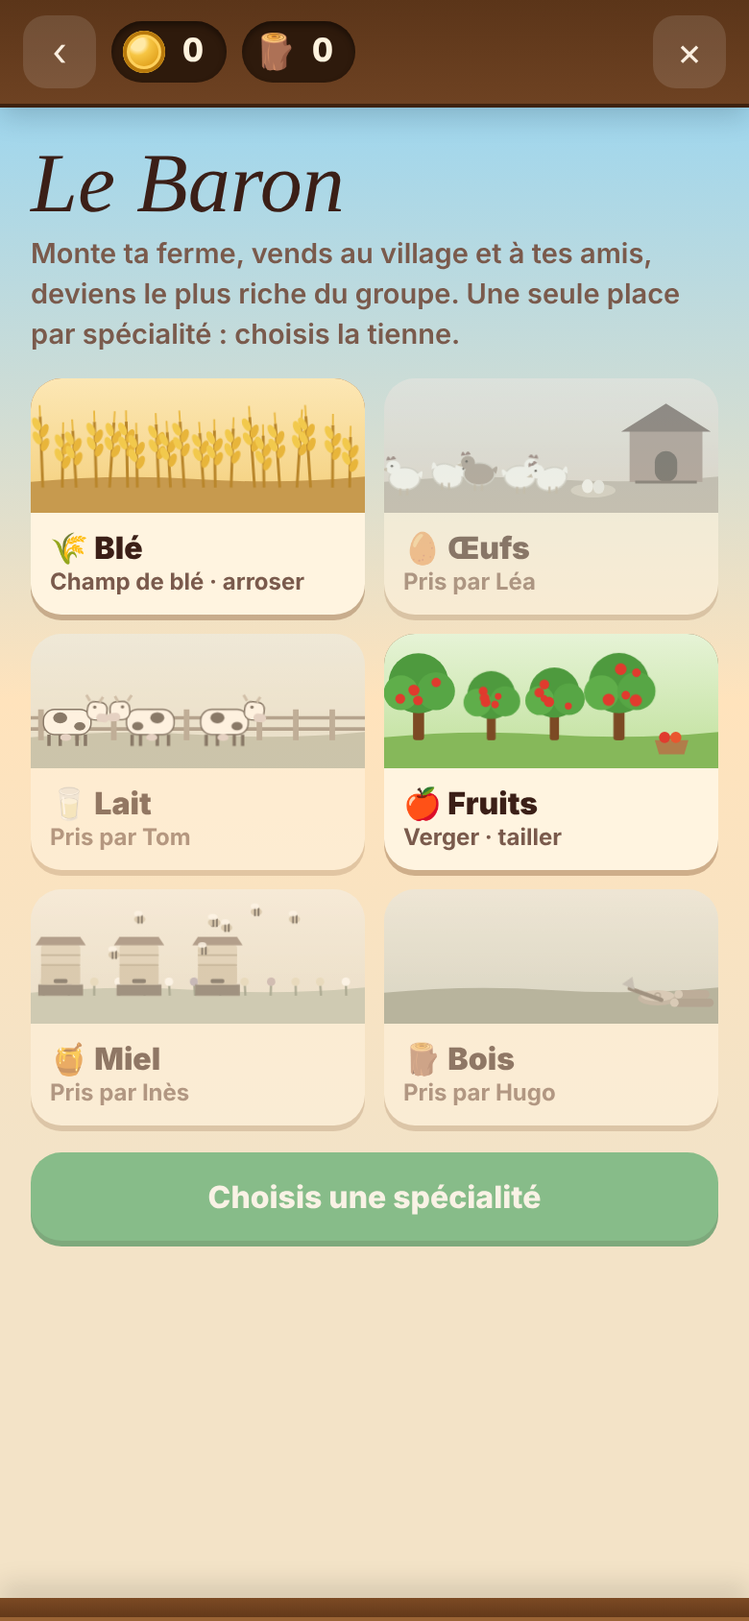
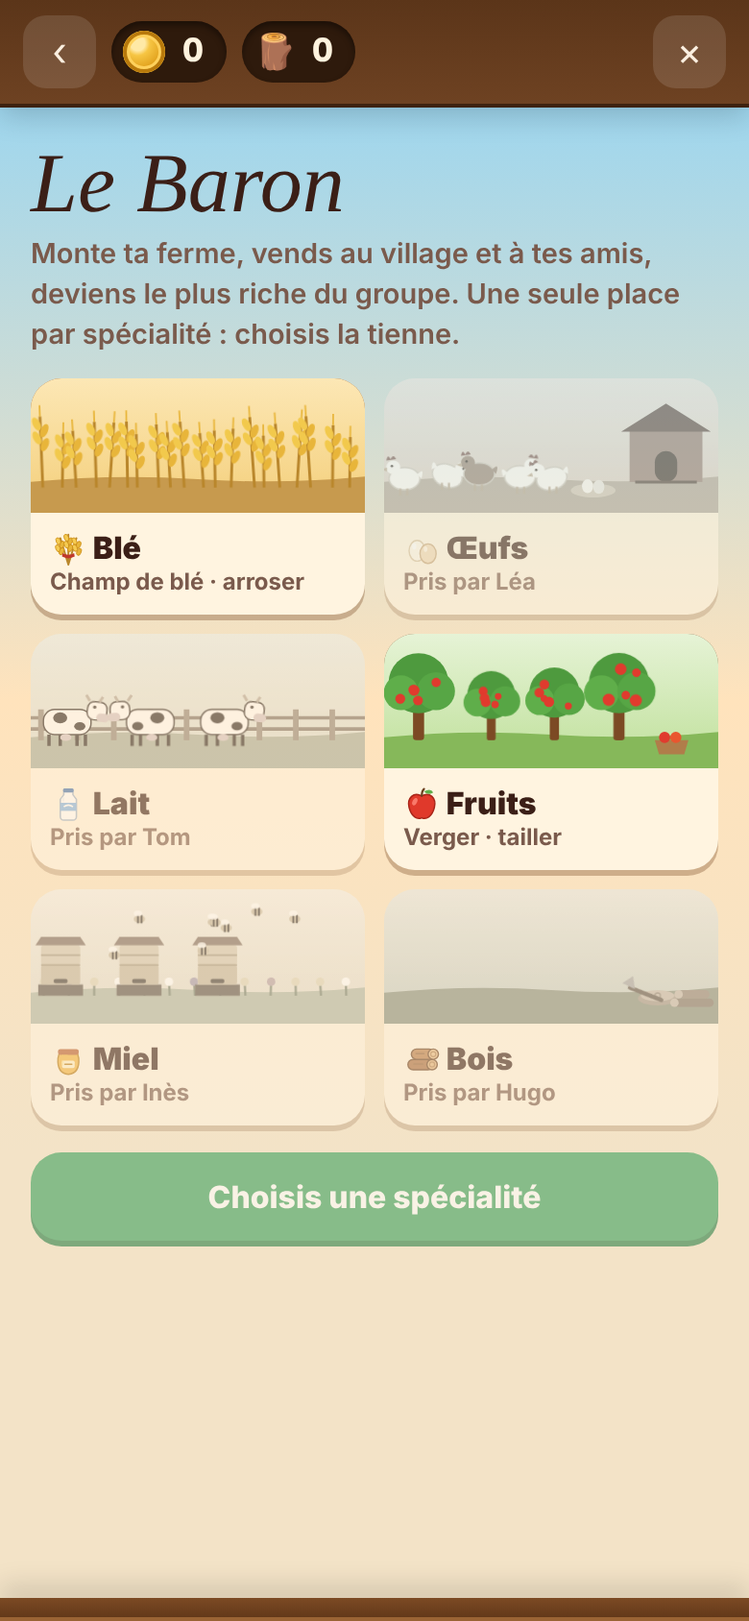
Le Baron v2 : vrais personnages dessinés (fermier, contremaîtres, villageois) animés et icônes dessinées pour les 11 produits, à la place des émojis
Claude-Session: https://claude.ai/code/session_016SqHKL96d9NyDZuzEYmYJY

diff --git a/baron.js b/baron.js
@@ -408,7 +408,7 @@ function coinsFly(fromEl, n){
 function floatText(el, text, cls){
   try{
     const r = el.getBoundingClientRect(), d = document.createElement("div");
-    d.className = "b2-float " + (cls || ""); d.textContent = text;
+    d.className = "b2-float " + (cls || ""); d.innerHTML = text;
     d.style.left = (r.left + r.width / 2) + "px"; d.style.top = (r.top + 6) + "px";
     document.body.appendChild(d); setTimeout(() => d.remove(), 1100);
   }catch(e){}
@@ -593,10 +593,11 @@ const STYLE = `
 .b2-cartlane{position:absolute;left:74px;right:118px;bottom:12px;height:50px;padding:0!important;z-index:1}
 .b2-cart{position:absolute;left:12px;bottom:0;width:80px;will-change:transform}
 .b2-cart .ld{position:absolute;left:50%;top:-20px;transform:translateX(-50%);background:var(--ink);color:#FFE6B8;border-radius:7px;padding:1px 6px;font:900 11.5px var(--round);transition:opacity .2s;white-space:nowrap}
-.b2-cart .pusher{position:absolute;left:-20px;bottom:2px;font-size:22px;line-height:1}
-.b2-cart.back .pusher{left:auto;right:-20px}
+.b2-cart .pusher{position:absolute;left:-24px;bottom:-2px;width:30px;height:44px}
+.b2-cart .pusher svg{width:100%;height:100%;display:block}
+.b2-cart.back .pusher{left:auto;right:-24px;transform:scaleX(-1)}
 .b2-cart.back svg{transform:scaleX(-1)}
-.b2-cart.mv .pusher{animation:b2-walk .3s ease-in-out infinite alternate}
+.b2-cart.mv .pusher svg{animation:b2-walk .3s ease-in-out infinite alternate}
 .b2-cart svg{display:block;width:100%}
 .b2-cart .wheel{transform-box:fill-box;transform-origin:center}
 .b2-cart.mv .wheel{animation:b2-spin .6s linear infinite}
@@ -690,16 +691,17 @@ const STYLE = `
 .b2-plot .pend .b2-tag{position:relative;top:-2px}
 .b2-plot .pend .b2-tag.warn{animation:b2-blink 1s infinite}
 .b2-wk{position:absolute;bottom:4px;left:66%;width:40px;margin-left:-20px;pointer-events:none;z-index:4;text-align:center}
-.b2-wk .who{display:block;font-size:34px;line-height:1;filter:drop-shadow(0 3px 1px rgba(0,0,0,.3))}
+.b2-wk .who{display:block;width:40px;height:58px;filter:drop-shadow(0 2px 1px rgba(0,0,0,.2))}
+.b2-wk .who svg{width:100%;height:100%;display:block}
 .b2-wk .carry{position:absolute;left:50%;top:-20px;transform:translateX(-50%);font-size:24px;display:none;filter:drop-shadow(0 2px 1px rgba(0,0,0,.3))}
 .b2-wk.go .carry{display:block}
+.b2-wk .carry{top:-4px!important;font-size:26px!important;z-index:2}
 .b2-wk.go .who{transform:scaleX(1)}
 .b2-wk.back .who{transform:scaleX(-1)}
 .b2-wk .bar{position:absolute;left:2px;right:2px;top:-12px;height:7px;border-radius:9px;background:rgba(59,31,23,.45);overflow:hidden;opacity:0;transition:opacity .15s}
 .b2-wk .bar i{display:block;height:100%;width:0;background:linear-gradient(90deg,#9BE07A,#3FAF4E);border-radius:9px}
 .b2-wk.work .bar{opacity:1}
-.b2-wk.work .who{animation:b2-dig .4s ease-in-out infinite alternate;transform-origin:50% 100%}
-.b2-wk.go .who,.b2-wk.back .who{animation:b2-walk .28s ease-in-out infinite alternate}
+.b2-wk.go .who svg,.b2-wk.back .who svg{animation:b2-walk .32s ease-in-out infinite alternate}
 .b2-call{display:none;position:absolute;left:50%;bottom:calc(100% + 6px);transform:translateX(-50%);white-space:nowrap;background:#fff;color:var(--ink);border-radius:999px;padding:4px 10px;font:900 13px var(--round);box-shadow:0 3px 10px rgba(0,0,0,.25);animation:b2-hint 1.2s ease-in-out infinite;pointer-events:none;z-index:6}
 .b2-call::after{content:"";position:absolute;left:50%;top:100%;margin-left:-6px;border:6px solid transparent;border-top-color:#fff}
 .b2-wk.tap .b2-call{display:block}
@@ -710,6 +712,21 @@ const STYLE = `
 .b2-cart .b2-call{bottom:calc(100% + 18px)}
 .b2-good{position:fixed;z-index:94;font-size:20px;pointer-events:none;animation:b2-good .8s cubic-bezier(.4,0,.3,1) forwards}
 @keyframes b2-good{0%{transform:translate(0,0) scale(.7);opacity:0}15%{opacity:1;transform:translate(0,-10px) scale(1.1)}100%{transform:translate(var(--dx),var(--dy)) scale(.8);opacity:.6}}
+.b2-ic{display:inline-block;width:1.2em;height:1.2em;vertical-align:-.25em;font-style:normal;line-height:0}
+.b2-ic svg,.b2-face svg{display:block;width:100%;height:100%}
+.b2-face{display:inline-block;width:1.25em;height:1.25em;vertical-align:-.3em;font-style:normal;line-height:0;border-radius:50%;background:#FFF4E0;overflow:hidden}
+.b2-person .lg,.b2-person .ar{transform-box:fill-box;transform-origin:50% 8%}
+.b2-wk.go .lg.l,.b2-wk.back .lg.l,.b2-cart.mv .lg.l{animation:b2-leg .32s ease-in-out infinite alternate}
+.b2-wk.go .lg.r,.b2-wk.back .lg.r,.b2-cart.mv .lg.r{animation:b2-leg .32s ease-in-out infinite alternate-reverse}
+.b2-wk.go .ar.l,.b2-wk.back .ar.l{animation:b2-arm .32s ease-in-out infinite alternate-reverse}
+.b2-wk.back .ar.r{animation:b2-arm .32s ease-in-out infinite alternate}
+.b2-wk.work .ar.r{animation:b2-fork .4s ease-in-out infinite alternate}
+.b2-wk.work .ar.l{animation:b2-arm .4s ease-in-out infinite alternate}
+.b2-cart.mv .ar{animation:none;transform:rotate(-55deg)}
+.b2-cart .ar{transform:rotate(-55deg)}
+@keyframes b2-leg{from{transform:rotate(-22deg)}to{transform:rotate(22deg)}}
+@keyframes b2-arm{from{transform:rotate(-25deg)}to{transform:rotate(25deg)}}
+@keyframes b2-fork{from{transform:rotate(-10deg)}to{transform:rotate(-60deg)}}
 .b2-plvl{position:absolute;left:8px;top:8px;background:rgba(59,31,23,.82);color:#FFE6B8;border-radius:9px;padding:3px 8px;font:800 11.5px var(--round);pointer-events:none}
 .b2-plvl b{font-size:15px;font-weight:900}
 .b2-plot .runbar{position:absolute;left:0;top:0;height:4px;border-radius:14px 0 0 0;background:#FFE08A;transition:width .25s linear}
@@ -1009,7 +1026,64 @@ function ovenArt(hot){
   <g><path class="b2-flame" d="M44 96 q4 -22 12 -26 q-2 12 6 16 q2 -10 8 -14 q2 14 6 24z" fill="#F2873B"/><path class="b2-flame" style="animation-delay:-.2s" d="M52 96 q3 -14 8 -16 q0 8 4 10 q2 -6 5 -8 q1 8 3 14z" fill="#FFD15C"/></g>
   <rect x="4" y="92" width="112" height="8" rx="3" fill="#8C7B6B"/></svg>`;
 }
-const MGR = { parcel:"🧑🌾", elev:"👷", cart:"🧔" };
+/* =================== Personnages et produits dessinés =================== */
+// un personnage (corps entier ou portrait), bras et jambes animables
+function person(o, portrait){
+  const sk = o.skin || "#F2C29B", ink = "#3B1F17", sh = o.shirt || "#D9533B", pa = o.pants || "#3F6FB0", hr = o.hair || "#6B3E1E";
+  const legs = portrait ? "" : `<g class="lg l"><rect x="14" y="41" width="5.5" height="13" rx="2.5" fill="${pa}"/><rect x="12.5" y="52" width="8" height="4.5" rx="2.2" fill="#4A2C17"/></g>
+    <g class="lg r"><rect x="20.5" y="41" width="5.5" height="13" rx="2.5" fill="${pa}"/><rect x="19.5" y="52" width="8" height="4.5" rx="2.2" fill="#4A2C17"/></g>`;
+  const back = `<g class="ar l"><rect x="8.5" y="27" width="5" height="13" rx="2.5" fill="${sh}"/><circle cx="11" cy="40.5" r="2.6" fill="${sk}"/></g>`;
+  const tool = o.tool === "fork" ? `<path d="M30 24 L30 50" stroke="#8C5A30" stroke-width="2" stroke-linecap="round"/><path d="M27 19 v6 M30 18 v7 M33 19 v6 M27 25 h6" stroke="#9AA6AE" stroke-width="1.6" stroke-linecap="round" fill="none"/>`
+    : o.tool === "whip" ? `<path d="M30 40 q6 -10 2 -20" stroke="#6B3E1E" stroke-width="1.6" fill="none"/>` : "";
+  const front = `<g class="ar r">${tool}<rect x="26.5" y="27" width="5" height="13" rx="2.5" fill="${sh}"/><circle cx="29" cy="40.5" r="2.6" fill="${sk}"/></g>`;
+  const body = `<rect x="12" y="25.5" width="16" height="18" rx="6" fill="${sh}"/>` + (o.over !== false ? `<rect x="14" y="31" width="12" height="12.5" rx="2.5" fill="${pa}"/><path d="M15 31 L14.5 26.5 M25 31 L25.5 26.5" stroke="${pa}" stroke-width="2.4"/><circle cx="15.5" cy="32.5" r="1" fill="#F2D27A"/><circle cx="24.5" cy="32.5" r="1" fill="#F2D27A"/>` : "")
+    + (o.apron ? `<path d="M14 30 h12 v13 a2 2 0 0 1 -2 2 h-8 a2 2 0 0 1 -2 -2z" fill="${o.apron}"/>` : "") + (o.vest ? `<path d="M12.5 28 h4 v15 h-4z M23.5 28 h4 v15 h-4z" fill="${o.vest}"/><path d="M12.5 35 h4 M23.5 35 h4" stroke="#F4F1E8" stroke-width="1.5"/>` : "");
+  let hat = "", hair = "";
+  if (o.hair2 === "bun") hair = `<circle cx="20" cy="7.5" r="4.5" fill="${hr}"/>`;
+  hair += `<path d="M11.2 16 a8.8 8.8 0 0 1 17.6 0 q-3 -3.5 -8.8 -3.5 q-5.8 0 -8.8 3.5z" fill="${hr}"/>`;
+  if (o.hat === "straw") hat = `<ellipse cx="20" cy="11.5" rx="13.5" ry="3.2" fill="#E2B85A"/><path d="M13.5 11.5 q0 -7.5 6.5 -7.5 q6.5 0 6.5 7.5z" fill="#F2D27A"/><path d="M13.6 10 h12.8" stroke="#C0392B" stroke-width="2"/>`;
+  if (o.hat === "hard") hat = `<path d="M11 13.5 a9 8.5 0 0 1 18 0z" fill="#F2B33D"/><rect x="9" y="12.5" width="22" height="3" rx="1.5" fill="#D99A1C"/><path d="M20 5.5 v8" stroke="#D99A1C" stroke-width="2"/>`;
+  if (o.hat === "cap") hat = `<path d="M11.3 13.5 a8.7 7.8 0 0 1 17.4 0z" fill="${o.capc || "#3A7E45"}"/><path d="M27 13 h6.5 a1.5 1.5 0 0 1 0 3 h-7z" fill="${o.capc || "#3A7E45"}"/>`;
+  if (o.hat === "chef") hat = `<rect x="13.5" y="8" width="13" height="5.5" rx="1.5" fill="#FFFFFF" stroke="#E2DCCF"/><circle cx="15.5" cy="6" r="4" fill="#fff" stroke="#E2DCCF"/><circle cx="20" cy="4" r="4.5" fill="#fff" stroke="#E2DCCF"/><circle cx="24.5" cy="6" r="4" fill="#fff" stroke="#E2DCCF"/><rect x="14" y="7" width="12" height="5" fill="#fff"/>`;
+  if (o.hat === "scarf") hat = `<path d="M10.5 18 a9.5 10 0 0 1 19 0 l-1.5 3 q-8 -9 -16 0z" fill="${o.scarfc || "#5E8FCB"}"/><circle cx="14" cy="11" r=".9" fill="#fff"/><circle cx="21" cy="9" r=".9" fill="#fff"/><circle cx="26" cy="12" r=".9" fill="#fff"/>`;
+  const beard = o.beard ? `<path d="M12 18 q1 9 8 9 q7 0 8 -9 q-2 4 -8 4 q-6 0 -8 -4z" fill="${hr}"/>` : "";
+  const head = `<circle cx="11.3" cy="18.5" r="2" fill="${sk}"/><circle cx="28.7" cy="18.5" r="2" fill="${sk}"/><circle cx="20" cy="17.5" r="9" fill="${sk}"/>${hair}${beard}
+    <circle cx="16.8" cy="17.6" r="1.25" fill="${ink}"/><circle cx="23.2" cy="17.6" r="1.25" fill="${ink}"/><circle cx="15" cy="20.6" r="1.6" fill="#F28C7A" opacity=".55"/><circle cx="25" cy="20.6" r="1.6" fill="#F28C7A" opacity=".55"/>
+    ${o.beard ? `<path d="M17.8 21.6 q2.2 1.4 4.4 0" stroke="${ink}" stroke-width="1" fill="none" stroke-linecap="round"/>` : `<path d="M17.6 21 q2.4 2.2 4.8 0" stroke="${ink}" stroke-width="1.1" fill="none" stroke-linecap="round"/>`}${o.mous ? `<path d="M16.5 20.4 q3.5 -1.6 7 0 q-3.5 1.2 -7 0z" fill="${hr}"/>` : ""}${hat}`;
+  const vb = portrait ? "5 -0.5 30 30" : "0 0 40 58";
+  return `<svg class="b2-person" viewBox="${vb}" aria-hidden="true">${portrait ? "" : `<ellipse cx="20" cy="56.5" rx="10" ry="1.8" fill="rgba(0,0,0,.18)"/>`}${legs}${back}${body}${front}${head}</svg>`;
+}
+const PEOPLE = {
+  parcel: { hat:"straw", shirt:"#D9533B", pants:"#3F6FB0", tool:"fork" },
+  elev:   { hat:"hard", shirt:"#4E7FB8", pants:"#46505C", vest:"#F2873B", over:false, skin:"#E0A87E" },
+  cart:   { hat:"cap", capc:"#3A7E45", shirt:"#EAD9B5", pants:"#7C4A24", beard:true, hair:"#5B3519", over:false, skin:"#F0BE96" },
+  boulanger:  { hat:"chef", shirt:"#FFFFFF", pants:"#E9E2D3", over:false, mous:true, hair:"#3B2A20" },
+  aubergiste: { shirt:"#B65C3B", pants:"#5B3519", over:false, apron:"#F2E6CC", beard:true, hair:"#A0522D", skin:"#E8B48C" },
+  patissiere: { hat:"chef", shirt:"#F4A9B8", pants:"#F4A9B8", over:false, apron:"#FFFFFF", hair:"#8B4A2B", skin:"#C98E6B" },
+  epiciere:   { hat:"scarf", scarfc:"#5E8FCB", shirt:"#8E6BB8", pants:"#8E6BB8", over:false, hair:"#C9C3BA", apron:"#F2D27A" },
+  charpentier:{ hat:"cap", capc:"#C0392B", shirt:"#C0392B", pants:"#3F6FB0", hair:"#2B1D14", skin:"#B07A55" },
+};
+const face = k => `<i class="b2-face">${person(PEOPLE[k], true)}</i>`;
+const MGR = { parcel: face("parcel"), elev: face("elev"), cart: face("cart") };
+const BODY = { parcel: person(PEOPLE.parcel), cart: person(Object.assign({}, PEOPLE.cart, { tool:null })) };
+for (const k in BX.CHARS) if (PEOPLE[k]) BX.CHARS[k].e = face(k);
+
+// les 11 produits
+const PIC = {
+  ble: `<path d="M16 30 L9 7 M16 30 L16 4 M16 30 L23 7" stroke="#B9862B" stroke-width="1.6" stroke-linecap="round"/>${[[9,7],[16,4],[23,7]].map(([x,y]) => [0,1,2,3].map(j => `<ellipse cx="${x + (j % 2 ? 1.8 : -1.8) + (x - 16) * j * .03}" cy="${y + 2 + j * 3}" rx="1.9" ry="3.2" fill="${j % 2 ? "#E8B53A" : "#F5CB52"}" stroke="#C98A12" stroke-width=".6" transform="rotate(${j % 2 ? 22 : -22} ${x} ${y + 2 + j * 3})"/>`).join("")).join("")}<path d="M11 20 q5 3 10 0 l0.5 3 q-5.5 3 -11 0z" fill="#C0392B"/>`,
+  oeufs: `<ellipse cx="12" cy="18" rx="7" ry="9" fill="#FFF8EA" stroke="#D9C3A0" stroke-width="1.2"/><ellipse cx="21.5" cy="20.5" rx="7" ry="8.5" fill="#F3D9B5" stroke="#C9A77A" stroke-width="1.2"/><ellipse cx="9.5" cy="14" rx="1.8" ry="2.8" fill="#fff"/><ellipse cx="19.3" cy="16.5" rx="1.6" ry="2.4" fill="#FFF3E0"/>`,
+  lait: `<path d="M12 4 h8 v4 l3 4 v15 a3 3 0 0 1 -3 3 h-8 a3 3 0 0 1 -3 -3 v-15 l3 -4z" fill="#FFFFFF" stroke="#9FB3C8" stroke-width="1.3"/><rect x="11.5" y="2.5" width="9" height="3.5" rx="1.2" fill="#3F6FB0"/><rect x="9" y="15" width="14" height="7" fill="#7FB2E5"/><path d="M12 18.5 q4 -3 8 0" stroke="#fff" stroke-width="1.3" fill="none"/><rect x="10.5" y="10" width="2" height="4" rx="1" fill="#EEF4FA"/>`,
+  fruits: `<path d="M16 9 C 9 5, 3 11, 5 19 C 7 27, 12 30, 16 28 C 20 30, 25 27, 27 19 C 29 11, 23 5, 16 9z" fill="#E0392B" stroke="#A82418" stroke-width="1.2"/><path d="M16 9 q0 -4 2 -6" stroke="#6B3E1E" stroke-width="1.8" stroke-linecap="round" fill="none"/><path d="M18 5 q6 -3 8 1 q-5 3 -8 -1z" fill="#5FAE4A"/><ellipse cx="10" cy="14" rx="2" ry="3.4" fill="#FF8A7A" opacity=".8" transform="rotate(25 10 14)"/>`,
+  miel: `<path d="M8 11 h16 l1 4 q1 13 -9 14 q-10 -1 -9 -14z" fill="#F2B33D" stroke="#B87A10" stroke-width="1.2"/><rect x="7" y="7" width="18" height="5" rx="2" fill="#B85C2A"/><path d="M10 12 q1 5 2.5 0 q1.5 7 3 0" fill="#F2B33D"/><rect x="10.5" y="17" width="11" height="6.5" rx="1.5" fill="#FFF0C7"/><path d="M13 20.3 h6" stroke="#B87A10" stroke-width="1.3" stroke-linecap="round"/><ellipse cx="11" cy="19" rx="1" ry="2.5" fill="#FFE08A" opacity=".7"/>`,
+  bois: `<rect x="4" y="16" width="22" height="9" rx="4.5" fill="#A86B3C" stroke="#6B3E1E" stroke-width="1.2"/><circle cx="25" cy="20.5" r="4.5" fill="#E2B27A" stroke="#6B3E1E" stroke-width="1.2"/><circle cx="25" cy="20.5" r="2.2" fill="none" stroke="#B07D4A" stroke-width="1"/><rect x="7" y="7" width="20" height="9" rx="4.5" fill="#B87A46" stroke="#6B3E1E" stroke-width="1.2"/><circle cx="26" cy="11.5" r="4.5" fill="#E8BC86" stroke="#6B3E1E" stroke-width="1.2"/><circle cx="26" cy="11.5" r="2.2" fill="none" stroke="#B07D4A" stroke-width="1"/><path d="M9 20 h8 M11 11 h7" stroke="#8C5A30" stroke-width="1" stroke-linecap="round"/>`,
+  pain: `<path d="M4 20 q0 -9 12 -11 q12 -2 12 7 q0 8 -12 10 q-12 1 -12 -6z" fill="#D9903F" stroke="#9E5E1E" stroke-width="1.2"/><path d="M10 13.5 l3 5 M15 12 l3 5 M20 11.5 l3 5" stroke="#F6D190" stroke-width="2" stroke-linecap="round"/>`,
+  crepes: `<ellipse cx="16" cy="25" rx="13" ry="3.5" fill="#E8F0F5" stroke="#B9C7D2"/>${[21, 17.5, 14].map(y => `<ellipse cx="16" cy="${y}" rx="11" ry="3.2" fill="#F0C46A" stroke="#C98A2B" stroke-width="1"/>`).join("")}<path d="M10 13 q6 -3 12 0 q1 4 -2 6 q-1 -3 -3 -2 q-2 3 -4 0 q-3 1 -3 -4z" fill="#9E5A1E" opacity=".85"/><rect x="14" y="8" width="5" height="4" rx="1" fill="#FFF3C4" stroke="#E2C77A" stroke-width=".8"/>`,
+  tarte: `<ellipse cx="16" cy="19" rx="13" ry="9" fill="#D9903F" stroke="#9E5E1E" stroke-width="1.2"/><ellipse cx="16" cy="18" rx="10" ry="6.5" fill="#C0392B"/><path d="M8 15.5 l16 5 M8 20.5 l16 -5 M12 12.5 l1 11 M20 12.5 l-1 11" stroke="#F0B562" stroke-width="2.2" stroke-linecap="round"/>`,
+  confiture: `<rect x="8" y="11" width="16" height="17" rx="4" fill="#C2263A" stroke="#8E1828" stroke-width="1.2"/><path d="M6 10 q10 -6 20 0 l-2 4 q-8 -3 -16 0z" fill="#fff" stroke="#E2DCCF"/><path d="M8.5 9 l3 1.5 M13 7.5 l3 1.5 M18 7.5 l3 1.5 M22 9 l2.5 1.5" stroke="#E0392B" stroke-width="1.6"/><path d="M8 13.5 h16" stroke="#7C4A24" stroke-width="1.2"/><rect x="11" y="17" width="10" height="6" rx="1.5" fill="#FFF0C7"/><ellipse cx="11" cy="20" rx="1" ry="3" fill="#E85A6B" opacity=".7"/>`,
+  gateau: `<rect x="5" y="17" width="22" height="10" rx="2.5" fill="#F4A9B8" stroke="#C26A7E" stroke-width="1.2"/><rect x="5" y="20.5" width="22" height="2.5" fill="#FFF3E0"/><path d="M5 17 q2.75 3 5.5 0 q2.75 3 5.5 0 q2.75 3 5.5 0 q2.75 3 5.5 0 v-3 q-11 -4 -22 0z" fill="#FFFFFF" stroke="#E2DCCF"/><circle cx="16" cy="10.5" r="3" fill="#E0392B"/><path d="M16 7.5 q1 -3 3.5 -3.5" stroke="#5FAE4A" stroke-width="1.3" fill="none"/><rect x="4" y="27" width="24" height="2.5" rx="1.2" fill="#C7D3DC"/>`,
+};
+for (const k in PIC) P[k].e = `<i class="b2-ic"><svg viewBox="0 0 32 32" aria-hidden="true">${PIC[k]}</svg></i>`;
+
 
 const st = document.createElement("style"); st.id = "b2-style"; st.textContent = STYLE; document.head.appendChild(st);
 
@@ -1132,7 +1206,7 @@ function flyGoods(from, to, e, n){
     const a = from.getBoundingClientRect(), b = to.getBoundingClientRect();
     if (a.bottom < 0 || a.top > innerHeight) return;
     for (let j = 0; j < (n || 3); j++){
-      const g = document.createElement("span"); g.className = "b2-good"; g.textContent = e;
+      const g = document.createElement("span"); g.className = "b2-good"; g.innerHTML = e;
       g.style.left = (a.left + a.width / 2 - 10) + "px"; g.style.top = (a.top + a.height / 2 - 10) + "px";
       g.style.setProperty("--dx", (b.left + b.width / 2 - a.left - a.width / 2) + "px"); g.style.setProperty("--dy", (b.top + b.height / 2 - a.top - a.height / 2) + "px");
       g.style.animationDelay = (j * 90) + "ms"; document.body.appendChild(g); setTimeout(() => g.remove(), 900 + j * 90);
@@ -1263,7 +1337,7 @@ function farmHTML(){
     return `<div class="b2-plot" data-plot="${i}" style="--soil:${depth(i)}">
       <div class="art" data-a="tap-parcel" data-i="${i}">${plotArt(key, i, p.lvl)}<div class="b2-path"></div>
         <div class="pend"><span class="b2-tag" data-pend>${fmtN(p.pend)}</span>${CRATE}</div>
-        <div class="b2-wk ${p.ph}" data-wk="${i}"><div class="bar"><i></i></div><span class="carry">${pr.e}</span><span class="who">${MGR.parcel}</span><span class="b2-call">👆 Récolter</span></div>
+        <div class="b2-wk ${p.ph}" data-wk="${i}"><div class="bar"><i></i></div><span class="carry">${pr.e}</span><span class="who">${BODY.parcel}</span><span class="b2-call">👆 Récolter</span></div>
       </div><span class="b2-plvl">Niv <b>${p.lvl}</b></span>
       <div class="b2-sign"><div class="row">
         ${seatHTML("parcel", p.mgr, BX.nice(BAL.parcelMgr(i)), i)}
@@ -1289,7 +1363,7 @@ function farmHTML(){
       <div class="b2-ground"></div><div class="b2-road"></div>
       <button class="b2-tower" data-a="tap-elev" aria-label="Faire monter le monte-charge">${TOWER}<span class="b2-call up" data-hint="elev">👆 Ramasser</span></button>
       <div class="b2-quai"><span class="b2-tag" data-live="quai">${fmtN(f.quai)}</span><div class="sacks" data-n="-1"></div><small>Dépôt</small></div>
-      <button class="b2-cartlane" data-a="tap-cart" aria-label="Faire rouler la charrette"><div class="b2-cart"><span class="ld">0</span>${CART}<span class="pusher">${MGR.cart}</span><span class="b2-call up" data-hint="cart">👆 Livrer</span></div></button>
+      <button class="b2-cartlane" data-a="tap-cart" aria-label="Faire rouler la charrette"><div class="b2-cart"><span class="ld">0</span>${CART}<span class="pusher">${BODY.cart}</span><span class="b2-call up" data-hint="cart">👆 Livrer</span></div></button>
     </div>
     ${farmsK.length > 1 ? `<div class="b2-farmsw">${farmsK.map(k => `<button class="${k === key ? "on" : ""}" data-a="farm" data-k="${k}">${P[k].e} ${P[k].label}</button>`).join("")}</div>` : ""}
     ${tip}

diff --git a/.github/baron-src/part-c.js b/.github/baron-src/part-c.js
@@ -91,10 +91,11 @@ const STYLE = `
 .b2-cartlane{position:absolute;left:74px;right:118px;bottom:12px;height:50px;padding:0!important;z-index:1}
 .b2-cart{position:absolute;left:12px;bottom:0;width:80px;will-change:transform}
 .b2-cart .ld{position:absolute;left:50%;top:-20px;transform:translateX(-50%);background:var(--ink);color:#FFE6B8;border-radius:7px;padding:1px 6px;font:900 11.5px var(--round);transition:opacity .2s;white-space:nowrap}
-.b2-cart .pusher{position:absolute;left:-20px;bottom:2px;font-size:22px;line-height:1}
-.b2-cart.back .pusher{left:auto;right:-20px}
+.b2-cart .pusher{position:absolute;left:-24px;bottom:-2px;width:30px;height:44px}
+.b2-cart .pusher svg{width:100%;height:100%;display:block}
+.b2-cart.back .pusher{left:auto;right:-24px;transform:scaleX(-1)}
 .b2-cart.back svg{transform:scaleX(-1)}
-.b2-cart.mv .pusher{animation:b2-walk .3s ease-in-out infinite alternate}
+.b2-cart.mv .pusher svg{animation:b2-walk .3s ease-in-out infinite alternate}
 .b2-cart svg{display:block;width:100%}
 .b2-cart .wheel{transform-box:fill-box;transform-origin:center}
 .b2-cart.mv .wheel{animation:b2-spin .6s linear infinite}
@@ -188,16 +189,17 @@ const STYLE = `
 .b2-plot .pend .b2-tag{position:relative;top:-2px}
 .b2-plot .pend .b2-tag.warn{animation:b2-blink 1s infinite}
 .b2-wk{position:absolute;bottom:4px;left:66%;width:40px;margin-left:-20px;pointer-events:none;z-index:4;text-align:center}
-.b2-wk .who{display:block;font-size:34px;line-height:1;filter:drop-shadow(0 3px 1px rgba(0,0,0,.3))}
+.b2-wk .who{display:block;width:40px;height:58px;filter:drop-shadow(0 2px 1px rgba(0,0,0,.2))}
+.b2-wk .who svg{width:100%;height:100%;display:block}
 .b2-wk .carry{position:absolute;left:50%;top:-20px;transform:translateX(-50%);font-size:24px;display:none;filter:drop-shadow(0 2px 1px rgba(0,0,0,.3))}
 .b2-wk.go .carry{display:block}
+.b2-wk .carry{top:-4px!important;font-size:26px!important;z-index:2}
 .b2-wk.go .who{transform:scaleX(1)}
 .b2-wk.back .who{transform:scaleX(-1)}
 .b2-wk .bar{position:absolute;left:2px;right:2px;top:-12px;height:7px;border-radius:9px;background:rgba(59,31,23,.45);overflow:hidden;opacity:0;transition:opacity .15s}
 .b2-wk .bar i{display:block;height:100%;width:0;background:linear-gradient(90deg,#9BE07A,#3FAF4E);border-radius:9px}
 .b2-wk.work .bar{opacity:1}
-.b2-wk.work .who{animation:b2-dig .4s ease-in-out infinite alternate;transform-origin:50% 100%}
-.b2-wk.go .who,.b2-wk.back .who{animation:b2-walk .28s ease-in-out infinite alternate}
+.b2-wk.go .who svg,.b2-wk.back .who svg{animation:b2-walk .32s ease-in-out infinite alternate}
 .b2-call{display:none;position:absolute;left:50%;bottom:calc(100% + 6px);transform:translateX(-50%);white-space:nowrap;background:#fff;color:var(--ink);border-radius:999px;padding:4px 10px;font:900 13px var(--round);box-shadow:0 3px 10px rgba(0,0,0,.25);animation:b2-hint 1.2s ease-in-out infinite;pointer-events:none;z-index:6}
 .b2-call::after{content:"";position:absolute;left:50%;top:100%;margin-left:-6px;border:6px solid transparent;border-top-color:#fff}
 .b2-wk.tap .b2-call{display:block}
@@ -208,6 +210,21 @@ const STYLE = `
 .b2-cart .b2-call{bottom:calc(100% + 18px)}
 .b2-good{position:fixed;z-index:94;font-size:20px;pointer-events:none;animation:b2-good .8s cubic-bezier(.4,0,.3,1) forwards}
 @keyframes b2-good{0%{transform:translate(0,0) scale(.7);opacity:0}15%{opacity:1;transform:translate(0,-10px) scale(1.1)}100%{transform:translate(var(--dx),var(--dy)) scale(.8);opacity:.6}}
+.b2-ic{display:inline-block;width:1.2em;height:1.2em;vertical-align:-.25em;font-style:normal;line-height:0}
+.b2-ic svg,.b2-face svg{display:block;width:100%;height:100%}
+.b2-face{display:inline-block;width:1.25em;height:1.25em;vertical-align:-.3em;font-style:normal;line-height:0;border-radius:50%;background:#FFF4E0;overflow:hidden}
+.b2-person .lg,.b2-person .ar{transform-box:fill-box;transform-origin:50% 8%}
+.b2-wk.go .lg.l,.b2-wk.back .lg.l,.b2-cart.mv .lg.l{animation:b2-leg .32s ease-in-out infinite alternate}
+.b2-wk.go .lg.r,.b2-wk.back .lg.r,.b2-cart.mv .lg.r{animation:b2-leg .32s ease-in-out infinite alternate-reverse}
+.b2-wk.go .ar.l,.b2-wk.back .ar.l{animation:b2-arm .32s ease-in-out infinite alternate-reverse}
+.b2-wk.back .ar.r{animation:b2-arm .32s ease-in-out infinite alternate}
+.b2-wk.work .ar.r{animation:b2-fork .4s ease-in-out infinite alternate}
+.b2-wk.work .ar.l{animation:b2-arm .4s ease-in-out infinite alternate}
+.b2-cart.mv .ar{animation:none;transform:rotate(-55deg)}
+.b2-cart .ar{transform:rotate(-55deg)}
+@keyframes b2-leg{from{transform:rotate(-22deg)}to{transform:rotate(22deg)}}
+@keyframes b2-arm{from{transform:rotate(-25deg)}to{transform:rotate(25deg)}}
+@keyframes b2-fork{from{transform:rotate(-10deg)}to{transform:rotate(-60deg)}}
 .b2-plvl{position:absolute;left:8px;top:8px;background:rgba(59,31,23,.82);color:#FFE6B8;border-radius:9px;padding:3px 8px;font:800 11.5px var(--round);pointer-events:none}
 .b2-plvl b{font-size:15px;font-weight:900}
 .b2-plot .runbar{position:absolute;left:0;top:0;height:4px;border-radius:14px 0 0 0;background:#FFE08A;transition:width .25s linear}
@@ -507,4 +524,61 @@ function ovenArt(hot){
   <g><path class="b2-flame" d="M44 96 q4 -22 12 -26 q-2 12 6 16 q2 -10 8 -14 q2 14 6 24z" fill="#F2873B"/><path class="b2-flame" style="animation-delay:-.2s" d="M52 96 q3 -14 8 -16 q0 8 4 10 q2 -6 5 -8 q1 8 3 14z" fill="#FFD15C"/></g>
   <rect x="4" y="92" width="112" height="8" rx="3" fill="#8C7B6B"/></svg>`;
 }
-const MGR = { parcel:"🧑🌾", elev:"👷", cart:"🧔" };
+/* =================== Personnages et produits dessinés =================== */
+// un personnage (corps entier ou portrait), bras et jambes animables
+function person(o, portrait){
+  const sk = o.skin || "#F2C29B", ink = "#3B1F17", sh = o.shirt || "#D9533B", pa = o.pants || "#3F6FB0", hr = o.hair || "#6B3E1E";
+  const legs = portrait ? "" : `<g class="lg l"><rect x="14" y="41" width="5.5" height="13" rx="2.5" fill="${pa}"/><rect x="12.5" y="52" width="8" height="4.5" rx="2.2" fill="#4A2C17"/></g>
+    <g class="lg r"><rect x="20.5" y="41" width="5.5" height="13" rx="2.5" fill="${pa}"/><rect x="19.5" y="52" width="8" height="4.5" rx="2.2" fill="#4A2C17"/></g>`;
+  const back = `<g class="ar l"><rect x="8.5" y="27" width="5" height="13" rx="2.5" fill="${sh}"/><circle cx="11" cy="40.5" r="2.6" fill="${sk}"/></g>`;
+  const tool = o.tool === "fork" ? `<path d="M30 24 L30 50" stroke="#8C5A30" stroke-width="2" stroke-linecap="round"/><path d="M27 19 v6 M30 18 v7 M33 19 v6 M27 25 h6" stroke="#9AA6AE" stroke-width="1.6" stroke-linecap="round" fill="none"/>`
+    : o.tool === "whip" ? `<path d="M30 40 q6 -10 2 -20" stroke="#6B3E1E" stroke-width="1.6" fill="none"/>` : "";
+  const front = `<g class="ar r">${tool}<rect x="26.5" y="27" width="5" height="13" rx="2.5" fill="${sh}"/><circle cx="29" cy="40.5" r="2.6" fill="${sk}"/></g>`;
+  const body = `<rect x="12" y="25.5" width="16" height="18" rx="6" fill="${sh}"/>` + (o.over !== false ? `<rect x="14" y="31" width="12" height="12.5" rx="2.5" fill="${pa}"/><path d="M15 31 L14.5 26.5 M25 31 L25.5 26.5" stroke="${pa}" stroke-width="2.4"/><circle cx="15.5" cy="32.5" r="1" fill="#F2D27A"/><circle cx="24.5" cy="32.5" r="1" fill="#F2D27A"/>` : "")
+    + (o.apron ? `<path d="M14 30 h12 v13 a2 2 0 0 1 -2 2 h-8 a2 2 0 0 1 -2 -2z" fill="${o.apron}"/>` : "") + (o.vest ? `<path d="M12.5 28 h4 v15 h-4z M23.5 28 h4 v15 h-4z" fill="${o.vest}"/><path d="M12.5 35 h4 M23.5 35 h4" stroke="#F4F1E8" stroke-width="1.5"/>` : "");
+  let hat = "", hair = "";
+  if (o.hair2 === "bun") hair = `<circle cx="20" cy="7.5" r="4.5" fill="${hr}"/>`;
+  hair += `<path d="M11.2 16 a8.8 8.8 0 0 1 17.6 0 q-3 -3.5 -8.8 -3.5 q-5.8 0 -8.8 3.5z" fill="${hr}"/>`;
+  if (o.hat === "straw") hat = `<ellipse cx="20" cy="11.5" rx="13.5" ry="3.2" fill="#E2B85A"/><path d="M13.5 11.5 q0 -7.5 6.5 -7.5 q6.5 0 6.5 7.5z" fill="#F2D27A"/><path d="M13.6 10 h12.8" stroke="#C0392B" stroke-width="2"/>`;
+  if (o.hat === "hard") hat = `<path d="M11 13.5 a9 8.5 0 0 1 18 0z" fill="#F2B33D"/><rect x="9" y="12.5" width="22" height="3" rx="1.5" fill="#D99A1C"/><path d="M20 5.5 v8" stroke="#D99A1C" stroke-width="2"/>`;
+  if (o.hat === "cap") hat = `<path d="M11.3 13.5 a8.7 7.8 0 0 1 17.4 0z" fill="${o.capc || "#3A7E45"}"/><path d="M27 13 h6.5 a1.5 1.5 0 0 1 0 3 h-7z" fill="${o.capc || "#3A7E45"}"/>`;
+  if (o.hat === "chef") hat = `<rect x="13.5" y="8" width="13" height="5.5" rx="1.5" fill="#FFFFFF" stroke="#E2DCCF"/><circle cx="15.5" cy="6" r="4" fill="#fff" stroke="#E2DCCF"/><circle cx="20" cy="4" r="4.5" fill="#fff" stroke="#E2DCCF"/><circle cx="24.5" cy="6" r="4" fill="#fff" stroke="#E2DCCF"/><rect x="14" y="7" width="12" height="5" fill="#fff"/>`;
+  if (o.hat === "scarf") hat = `<path d="M10.5 18 a9.5 10 0 0 1 19 0 l-1.5 3 q-8 -9 -16 0z" fill="${o.scarfc || "#5E8FCB"}"/><circle cx="14" cy="11" r=".9" fill="#fff"/><circle cx="21" cy="9" r=".9" fill="#fff"/><circle cx="26" cy="12" r=".9" fill="#fff"/>`;
+  const beard = o.beard ? `<path d="M12 18 q1 9 8 9 q7 0 8 -9 q-2 4 -8 4 q-6 0 -8 -4z" fill="${hr}"/>` : "";
+  const head = `<circle cx="11.3" cy="18.5" r="2" fill="${sk}"/><circle cx="28.7" cy="18.5" r="2" fill="${sk}"/><circle cx="20" cy="17.5" r="9" fill="${sk}"/>${hair}${beard}
+    <circle cx="16.8" cy="17.6" r="1.25" fill="${ink}"/><circle cx="23.2" cy="17.6" r="1.25" fill="${ink}"/><circle cx="15" cy="20.6" r="1.6" fill="#F28C7A" opacity=".55"/><circle cx="25" cy="20.6" r="1.6" fill="#F28C7A" opacity=".55"/>
+    ${o.beard ? `<path d="M17.8 21.6 q2.2 1.4 4.4 0" stroke="${ink}" stroke-width="1" fill="none" stroke-linecap="round"/>` : `<path d="M17.6 21 q2.4 2.2 4.8 0" stroke="${ink}" stroke-width="1.1" fill="none" stroke-linecap="round"/>`}${o.mous ? `<path d="M16.5 20.4 q3.5 -1.6 7 0 q-3.5 1.2 -7 0z" fill="${hr}"/>` : ""}${hat}`;
+  const vb = portrait ? "5 -0.5 30 30" : "0 0 40 58";
+  return `<svg class="b2-person" viewBox="${vb}" aria-hidden="true">${portrait ? "" : `<ellipse cx="20" cy="56.5" rx="10" ry="1.8" fill="rgba(0,0,0,.18)"/>`}${legs}${back}${body}${front}${head}</svg>`;
+}
+const PEOPLE = {
+  parcel: { hat:"straw", shirt:"#D9533B", pants:"#3F6FB0", tool:"fork" },
+  elev:   { hat:"hard", shirt:"#4E7FB8", pants:"#46505C", vest:"#F2873B", over:false, skin:"#E0A87E" },
+  cart:   { hat:"cap", capc:"#3A7E45", shirt:"#EAD9B5", pants:"#7C4A24", beard:true, hair:"#5B3519", over:false, skin:"#F0BE96" },
+  boulanger:  { hat:"chef", shirt:"#FFFFFF", pants:"#E9E2D3", over:false, mous:true, hair:"#3B2A20" },
+  aubergiste: { shirt:"#B65C3B", pants:"#5B3519", over:false, apron:"#F2E6CC", beard:true, hair:"#A0522D", skin:"#E8B48C" },
+  patissiere: { hat:"chef", shirt:"#F4A9B8", pants:"#F4A9B8", over:false, apron:"#FFFFFF", hair:"#8B4A2B", skin:"#C98E6B" },
+  epiciere:   { hat:"scarf", scarfc:"#5E8FCB", shirt:"#8E6BB8", pants:"#8E6BB8", over:false, hair:"#C9C3BA", apron:"#F2D27A" },
+  charpentier:{ hat:"cap", capc:"#C0392B", shirt:"#C0392B", pants:"#3F6FB0", hair:"#2B1D14", skin:"#B07A55" },
+};
+const face = k => `<i class="b2-face">${person(PEOPLE[k], true)}</i>`;
+const MGR = { parcel: face("parcel"), elev: face("elev"), cart: face("cart") };
+const BODY = { parcel: person(PEOPLE.parcel), cart: person(Object.assign({}, PEOPLE.cart, { tool:null })) };
+for (const k in BX.CHARS) if (PEOPLE[k]) BX.CHARS[k].e = face(k);
+
+// les 11 produits
+const PIC = {
+  ble: `<path d="M16 30 L9 7 M16 30 L16 4 M16 30 L23 7" stroke="#B9862B" stroke-width="1.6" stroke-linecap="round"/>${[[9,7],[16,4],[23,7]].map(([x,y]) => [0,1,2,3].map(j => `<ellipse cx="${x + (j % 2 ? 1.8 : -1.8) + (x - 16) * j * .03}" cy="${y + 2 + j * 3}" rx="1.9" ry="3.2" fill="${j % 2 ? "#E8B53A" : "#F5CB52"}" stroke="#C98A12" stroke-width=".6" transform="rotate(${j % 2 ? 22 : -22} ${x} ${y + 2 + j * 3})"/>`).join("")).join("")}<path d="M11 20 q5 3 10 0 l0.5 3 q-5.5 3 -11 0z" fill="#C0392B"/>`,
+  oeufs: `<ellipse cx="12" cy="18" rx="7" ry="9" fill="#FFF8EA" stroke="#D9C3A0" stroke-width="1.2"/><ellipse cx="21.5" cy="20.5" rx="7" ry="8.5" fill="#F3D9B5" stroke="#C9A77A" stroke-width="1.2"/><ellipse cx="9.5" cy="14" rx="1.8" ry="2.8" fill="#fff"/><ellipse cx="19.3" cy="16.5" rx="1.6" ry="2.4" fill="#FFF3E0"/>`,
+  lait: `<path d="M12 4 h8 v4 l3 4 v15 a3 3 0 0 1 -3 3 h-8 a3 3 0 0 1 -3 -3 v-15 l3 -4z" fill="#FFFFFF" stroke="#9FB3C8" stroke-width="1.3"/><rect x="11.5" y="2.5" width="9" height="3.5" rx="1.2" fill="#3F6FB0"/><rect x="9" y="15" width="14" height="7" fill="#7FB2E5"/><path d="M12 18.5 q4 -3 8 0" stroke="#fff" stroke-width="1.3" fill="none"/><rect x="10.5" y="10" width="2" height="4" rx="1" fill="#EEF4FA"/>`,
+  fruits: `<path d="M16 9 C 9 5, 3 11, 5 19 C 7 27, 12 30, 16 28 C 20 30, 25 27, 27 19 C 29 11, 23 5, 16 9z" fill="#E0392B" stroke="#A82418" stroke-width="1.2"/><path d="M16 9 q0 -4 2 -6" stroke="#6B3E1E" stroke-width="1.8" stroke-linecap="round" fill="none"/><path d="M18 5 q6 -3 8 1 q-5 3 -8 -1z" fill="#5FAE4A"/><ellipse cx="10" cy="14" rx="2" ry="3.4" fill="#FF8A7A" opacity=".8" transform="rotate(25 10 14)"/>`,
+  miel: `<path d="M8 11 h16 l1 4 q1 13 -9 14 q-10 -1 -9 -14z" fill="#F2B33D" stroke="#B87A10" stroke-width="1.2"/><rect x="7" y="7" width="18" height="5" rx="2" fill="#B85C2A"/><path d="M10 12 q1 5 2.5 0 q1.5 7 3 0" fill="#F2B33D"/><rect x="10.5" y="17" width="11" height="6.5" rx="1.5" fill="#FFF0C7"/><path d="M13 20.3 h6" stroke="#B87A10" stroke-width="1.3" stroke-linecap="round"/><ellipse cx="11" cy="19" rx="1" ry="2.5" fill="#FFE08A" opacity=".7"/>`,
+  bois: `<rect x="4" y="16" width="22" height="9" rx="4.5" fill="#A86B3C" stroke="#6B3E1E" stroke-width="1.2"/><circle cx="25" cy="20.5" r="4.5" fill="#E2B27A" stroke="#6B3E1E" stroke-width="1.2"/><circle cx="25" cy="20.5" r="2.2" fill="none" stroke="#B07D4A" stroke-width="1"/><rect x="7" y="7" width="20" height="9" rx="4.5" fill="#B87A46" stroke="#6B3E1E" stroke-width="1.2"/><circle cx="26" cy="11.5" r="4.5" fill="#E8BC86" stroke="#6B3E1E" stroke-width="1.2"/><circle cx="26" cy="11.5" r="2.2" fill="none" stroke="#B07D4A" stroke-width="1"/><path d="M9 20 h8 M11 11 h7" stroke="#8C5A30" stroke-width="1" stroke-linecap="round"/>`,
+  pain: `<path d="M4 20 q0 -9 12 -11 q12 -2 12 7 q0 8 -12 10 q-12 1 -12 -6z" fill="#D9903F" stroke="#9E5E1E" stroke-width="1.2"/><path d="M10 13.5 l3 5 M15 12 l3 5 M20 11.5 l3 5" stroke="#F6D190" stroke-width="2" stroke-linecap="round"/>`,
+  crepes: `<ellipse cx="16" cy="25" rx="13" ry="3.5" fill="#E8F0F5" stroke="#B9C7D2"/>${[21, 17.5, 14].map(y => `<ellipse cx="16" cy="${y}" rx="11" ry="3.2" fill="#F0C46A" stroke="#C98A2B" stroke-width="1"/>`).join("")}<path d="M10 13 q6 -3 12 0 q1 4 -2 6 q-1 -3 -3 -2 q-2 3 -4 0 q-3 1 -3 -4z" fill="#9E5A1E" opacity=".85"/><rect x="14" y="8" width="5" height="4" rx="1" fill="#FFF3C4" stroke="#E2C77A" stroke-width=".8"/>`,
+  tarte: `<ellipse cx="16" cy="19" rx="13" ry="9" fill="#D9903F" stroke="#9E5E1E" stroke-width="1.2"/><ellipse cx="16" cy="18" rx="10" ry="6.5" fill="#C0392B"/><path d="M8 15.5 l16 5 M8 20.5 l16 -5 M12 12.5 l1 11 M20 12.5 l-1 11" stroke="#F0B562" stroke-width="2.2" stroke-linecap="round"/>`,
+  confiture: `<rect x="8" y="11" width="16" height="17" rx="4" fill="#C2263A" stroke="#8E1828" stroke-width="1.2"/><path d="M6 10 q10 -6 20 0 l-2 4 q-8 -3 -16 0z" fill="#fff" stroke="#E2DCCF"/><path d="M8.5 9 l3 1.5 M13 7.5 l3 1.5 M18 7.5 l3 1.5 M22 9 l2.5 1.5" stroke="#E0392B" stroke-width="1.6"/><path d="M8 13.5 h16" stroke="#7C4A24" stroke-width="1.2"/><rect x="11" y="17" width="10" height="6" rx="1.5" fill="#FFF0C7"/><ellipse cx="11" cy="20" rx="1" ry="3" fill="#E85A6B" opacity=".7"/>`,
+  gateau: `<rect x="5" y="17" width="22" height="10" rx="2.5" fill="#F4A9B8" stroke="#C26A7E" stroke-width="1.2"/><rect x="5" y="20.5" width="22" height="2.5" fill="#FFF3E0"/><path d="M5 17 q2.75 3 5.5 0 q2.75 3 5.5 0 q2.75 3 5.5 0 q2.75 3 5.5 0 v-3 q-11 -4 -22 0z" fill="#FFFFFF" stroke="#E2DCCF"/><circle cx="16" cy="10.5" r="3" fill="#E0392B"/><path d="M16 7.5 q1 -3 3.5 -3.5" stroke="#5FAE4A" stroke-width="1.3" fill="none"/><rect x="4" y="27" width="24" height="2.5" rx="1.2" fill="#C7D3DC"/>`,
+};
+for (const k in PIC) P[k].e = `<i class="b2-ic"><svg viewBox="0 0 32 32" aria-hidden="true">${PIC[k]}</svg></i>`;
+

diff --git a/.github/baron-src/part-d.js b/.github/baron-src/part-d.js
@@ -120,7 +120,7 @@ function flyGoods(from, to, e, n){
     const a = from.getBoundingClientRect(), b = to.getBoundingClientRect();
     if (a.bottom < 0 || a.top > innerHeight) return;
     for (let j = 0; j < (n || 3); j++){
-      const g = document.createElement("span"); g.className = "b2-good"; g.textContent = e;
+      const g = document.createElement("span"); g.className = "b2-good"; g.innerHTML = e;
       g.style.left = (a.left + a.width / 2 - 10) + "px"; g.style.top = (a.top + a.height / 2 - 10) + "px";
       g.style.setProperty("--dx", (b.left + b.width / 2 - a.left - a.width / 2) + "px"); g.style.setProperty("--dy", (b.top + b.height / 2 - a.top - a.height / 2) + "px");
       g.style.animationDelay = (j * 90) + "ms"; document.body.appendChild(g); setTimeout(() => g.remove(), 900 + j * 90);
@@ -251,7 +251,7 @@ function farmHTML(){
     return `<div class="b2-plot" data-plot="${i}" style="--soil:${depth(i)}">
       <div class="art" data-a="tap-parcel" data-i="${i}">${plotArt(key, i, p.lvl)}<div class="b2-path"></div>
         <div class="pend"><span class="b2-tag" data-pend>${fmtN(p.pend)}</span>${CRATE}</div>
-        <div class="b2-wk ${p.ph}" data-wk="${i}"><div class="bar"><i></i></div><span class="carry">${pr.e}</span><span class="who">${MGR.parcel}</span><span class="b2-call">👆 Récolter</span></div>
+        <div class="b2-wk ${p.ph}" data-wk="${i}"><div class="bar"><i></i></div><span class="carry">${pr.e}</span><span class="who">${BODY.parcel}</span><span class="b2-call">👆 Récolter</span></div>
       </div><span class="b2-plvl">Niv <b>${p.lvl}</b></span>
       <div class="b2-sign"><div class="row">
         ${seatHTML("parcel", p.mgr, BX.nice(BAL.parcelMgr(i)), i)}
@@ -277,7 +277,7 @@ function farmHTML(){
       <div class="b2-ground"></div><div class="b2-road"></div>
       <button class="b2-tower" data-a="tap-elev" aria-label="Faire monter le monte-charge">${TOWER}<span class="b2-call up" data-hint="elev">👆 Ramasser</span></button>
       <div class="b2-quai"><span class="b2-tag" data-live="quai">${fmtN(f.quai)}</span><div class="sacks" data-n="-1"></div><small>Dépôt</small></div>
-      <button class="b2-cartlane" data-a="tap-cart" aria-label="Faire rouler la charrette"><div class="b2-cart"><span class="ld">0</span>${CART}<span class="pusher">${MGR.cart}</span><span class="b2-call up" data-hint="cart">👆 Livrer</span></div></button>
+      <button class="b2-cartlane" data-a="tap-cart" aria-label="Faire rouler la charrette"><div class="b2-cart"><span class="ld">0</span>${CART}<span class="pusher">${BODY.cart}</span><span class="b2-call up" data-hint="cart">👆 Livrer</span></div></button>
     </div>
     ${farmsK.length > 1 ? `<div class="b2-farmsw">${farmsK.map(k => `<button class="${k === key ? "on" : ""}" data-a="farm" data-k="${k}">${P[k].e} ${P[k].label}</button>`).join("")}</div>` : ""}
     ${tip}

diff --git a/.github/baron-src/part-b.js b/.github/baron-src/part-b.js
@@ -67,7 +67,7 @@ function coinsFly(fromEl, n){
 function floatText(el, text, cls){
   try{
     const r = el.getBoundingClientRect(), d = document.createElement("div");
-    d.className = "b2-float " + (cls || ""); d.textContent = text;
+    d.className = "b2-float " + (cls || ""); d.innerHTML = text;
     d.style.left = (r.left + r.width / 2) + "px"; d.style.top = (r.top + 6) + "px";
     document.body.appendChild(d); setTimeout(() => d.remove(), 1100);
   }catch(e){}

diff --git a/index.html b/index.html
@@ -1314,7 +1314,7 @@ if (role === "ami" || role === "romane"){
     loadScript("jeux.js?v=9").catch(() => {});
     loadScript("hub.js?v=10").catch(() => {});
     loadScript("colis.js?v=1").catch(() => {});
-    if (role === "ami") loadScript("baron.js?v=14").catch(() => {});
+    if (role === "ami") loadScript("baron.js?v=15").catch(() => {});
   }catch(e){}
 }
 window.addEventListener("pageshow", e => { if (e.persisted) refreshIfStale(); });
